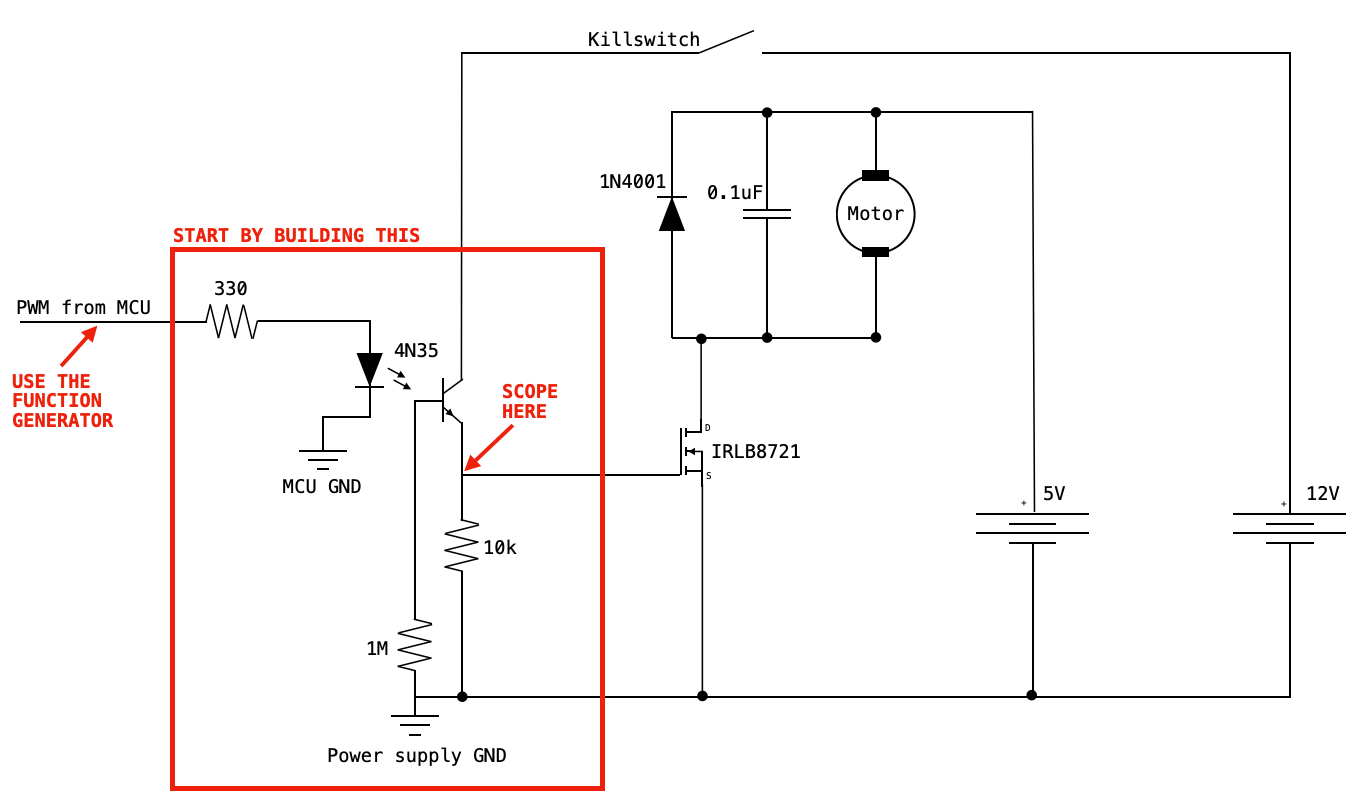
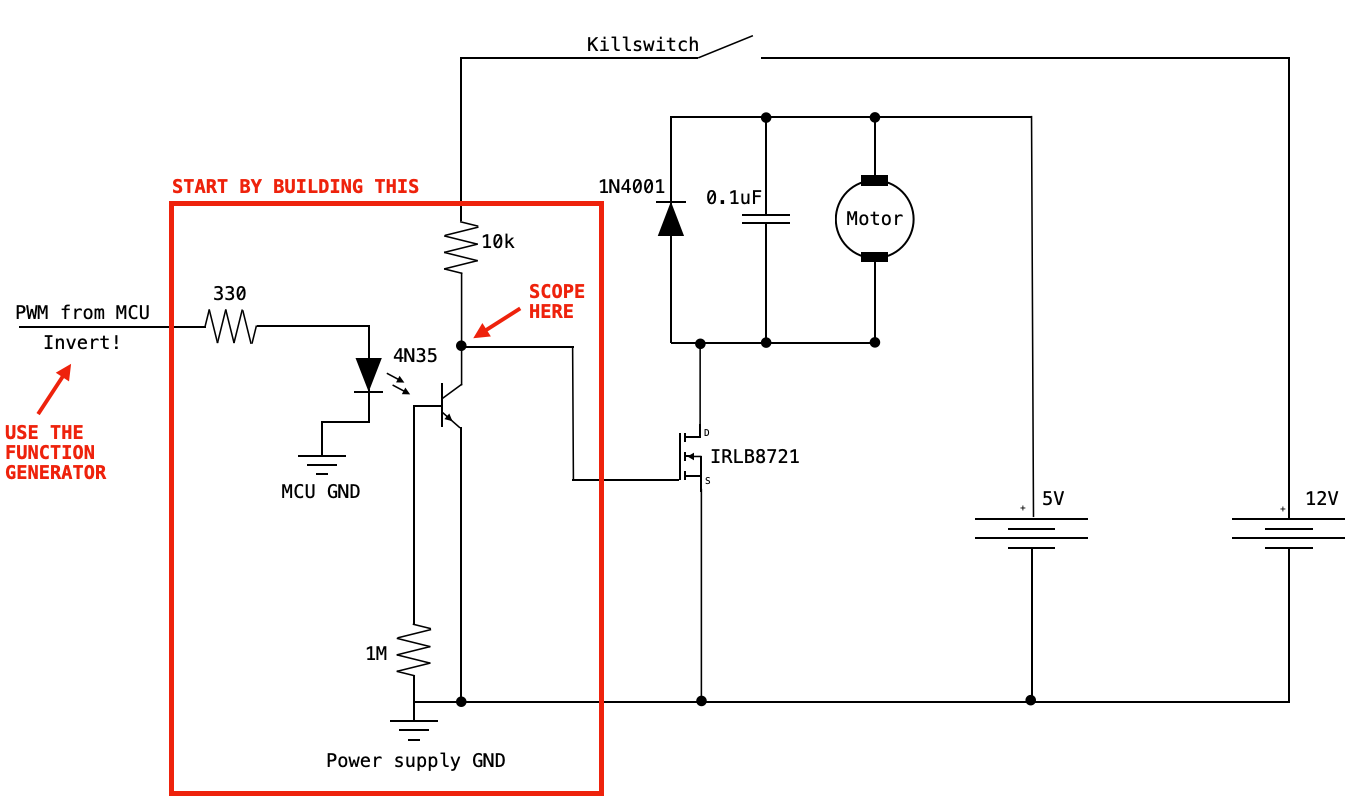
updated helicopter motor page

diff --git a/Pico/Helicopter/MotorCircuit.html b/Pico/Helicopter/MotorCircuit.html
@@ -13093,6 +13093,7 @@ div#notebook {
 </div><div class="inner_cell">
 <div class="text_cell_render border-box-sizing rendered_html">
 <h3 id="Overview-of-circuit">Overview of circuit<a class="anchor-link" href="#Overview-of-circuit">&#182;</a></h3><p>The motor circuit must protect the microcontroller from the large $L \frac{dI}{dt}$ voltage spikes that come off of a PWM-driven DC motor. The 4N35 optoisolator completely isolates the MCU from the motor. The 1N4001 snubber diode provides a path to ground for reverse-polarity spikes coming off the motor, and the capacitor in parallel with the 1N4001 provides a path to ground for higher frequency noise. Some of the components in this circuit require some experimentation/trial and error. The resistor attached to the base of the 4N35 should be set for best falltime, probably ~1MOhm. The capacitor in parallel with the motor should be ceramic (electrolytics are too slow) and should start with a value ~0.1uF. If there is too much spike noise on the analog input, this value can be increased. Note that we're driving the gate of the power mosfet at 12V, and the motor at 5-6V.</p>
+<p>Note that this circuit has the benefit of putting the BJT into high-gain switch mode, but inverts the PWM signal from the microcontroller. Fortunately, a bit in the PWM control register for the RP2040 allows for us to invert the output.</p>
 <figure>
     <img align="center" width="700" height="500" src="motorcircuit.png" alt='missing' />
     <center><figcaption></figcaption></center>
@@ -13139,7 +13140,7 @@ div#notebook {
 <div class="cell border-box-sizing text_cell rendered"><div class="prompt input_prompt">
 </div><div class="inner_cell">
 <div class="text_cell_render border-box-sizing rendered_html">
-<h3 id="Generating-PWM">Generating PWM<a class="anchor-link" href="#Generating-PWM">&#182;</a></h3><p>The PWM chapter in the <a href="https://datasheets.raspberrypi.com/rp2040/rp2040-datasheet.pdf">RP2040 datasheet</a> is short, read it!! The RP2040's PWM block is organized into "slices", each of which is connected to two GPIO ports. All 30 GPIO ports can be driven by the PWM block, but only 16 can be driven independently. Each PWM slice is equipped with a 16-bit counter, 8.4 fractional clock divider, two independent output channels, dual slope and trailing edge modulation, interrupt request and DMA request on counter wrap, and advanceable/retardable phase. Furthermore, each can be used in <em>input mode</em> to measure the duty cycle and frequency of an input signal.</p>
+<h3 id="Generating-PWM">Generating PWM<a class="anchor-link" href="#Generating-PWM">&#182;</a></h3><p>The PWM chapter in the <a href="https://datasheets.raspberrypi.com/rp2040/rp2040-datasheet.pdf">RP2040 datasheet</a> is short, read it!! The RP2040's PWM block is organized into "slices", each of which is connected to two GPIO ports. All 30 GPIO ports can be driven by the PWM block, but only 16 can be driven independently. Each PWM slice is equipped with a 16-bit counter, 8.4 fractional clock divider, two independent output channels, dual slope and trailing edge modulation, interrupt request and DMA request on counter wrap, and advanceable/retardable phase. Furthermore, each can be used in <em>input mode</em> to measure the duty cycle and frequency of an input signal. Each PWM channel can also be configured such that its output is inverted, which is handy for our application!</p>
 <p>The following code shows how to configure a PWM channel to throw an interrupt each time it wraps. We first map a particular GPIO (in this case, GPIO 5) to the PWM block. We use an SDK function to obtain the PWM slice associated with that GPIO (we could alternatively have looked this up in the datasheet). Then, we clear the interrupt associated with that GPIO slice, enable it, configure it such that it enters the ISR called <code>on_pwm_wrap()</code> each time the PWM wraps, end then enable the interrupt with the <code>PWM_IRQ_WRAP</code> interrupt flag.</p>
 <p>Finally, we configure the wrapvalue and clock divider for the PWM channel, set the level (i.e. duty cycle) and start the channel.</p>
 <p>Depending what you're trying to do with the PWM channel, you might omit some of these configurations.</p>
@@ -13162,6 +13163,12 @@ div#notebook {
 <span class="c1">// This section configures the period of the PWM signals</span>
 <span class="n">pwm_set_wrap</span><span class="p">(</span><span class="n">slice_num</span><span class="p">,</span> <span class="n">WRAPVAL</span><span class="p">)</span> <span class="p">;</span>
 <span class="n">pwm_set_clkdiv</span><span class="p">(</span><span class="n">slice_num</span><span class="p">,</span> <span class="n">CLKDIV</span><span class="p">)</span> <span class="p">;</span>
+
+<span class="c1">// Invert?</span>
+<span class="c1">// First argument is slice number.</span>
+<span class="c1">// If second argument is true, channel A is inverted.</span>
+<span class="c1">// If third argument is true, channel B is inverted.</span>
+<span class="n">pwm_set_output_polarity</span> <span class="p">(</span><span class="n">slice_num</span><span class="p">,</span> <span class="mi">0</span><span class="p">,</span> <span class="mi">1</span><span class="p">)</span> 
 
 <span class="c1">// This sets duty cycle</span>
 <span class="n">pwm_set_chan_level</span><span class="p">(</span><span class="n">slice_num</span><span class="p">,</span> <span class="n">PWM_CHAN_B</span><span class="p">,</span> <span class="mi">3125</span><span class="p">);</span>

diff --git a/Pico/Helicopter/Helicopter.html b/Pico/Helicopter/Helicopter.html
@@ -13185,8 +13185,8 @@ div#notebook {
 <h2 id="Weekly-checkpoints-and-lab-report">Weekly checkpoints and lab report<a class="anchor-link" href="#Weekly-checkpoints-and-lab-report">&#182;</a></h2><p>Note that these checkpoints are <strong>cumulative</strong>. In week 2, for example, you must have also completed all of the requirements from week 1.</p>
 <h4 id="Week-one-checkpoint">Week one checkpoint<a class="anchor-link" href="#Week-one-checkpoint">&#182;</a></h4><p>By the end of the lab session in week one of the lab you must have:</p>
 <ul>
-<li>The mechanical assembly finished and be able to control motor speed open loop, from the PWM output. <a href="https://github.com/vha3/Hunter-Adams-RP2040-Demos/tree/master/PWM/PWM_Demo">Here is some demo code</a> to get you started.</li>
-<li><strong>You will build your motor control circuit on a solderboard, not on the breadboard!</strong></li>
+<li>The mechanical assembly finished and be able to control motor speed open loop, from the PWM output. <a href="https://github.com/vha3/Hunter-Adams-RP2040-Demos/tree/master/PWM/PWM_Demo">Here is some demo code</a> to get you started. Remember that you'll need to add one line which inverts the PWM output! See the <a href="https://vanhunteradams.com/Pico/Helicopter/MotorCircuit.html">motor circuit page</a>.</li>
+<li><strong>You will build your motor control circuit on a solderboard, not on the breadboard!</strong> See <a href="https://people.ece.cornell.edu/land/courses/ece4760/Analog/motor_controller/index_motor.html">Bruce's guide</a>, also linked on the <a href="https://vanhunteradams.com/Pico/Helicopter/MotorCircuit.html">motor circuit page</a>.</li>
 <li><em>Finishing a checkpoint does NOT mean you can leave lab early!</em></li>
 </ul>
 <h4 id="Week-two-checkpoint">Week two checkpoint<a class="anchor-link" href="#Week-two-checkpoint">&#182;</a></h4><p>By the end of the lab session in week two of the lab you must have:</p>
